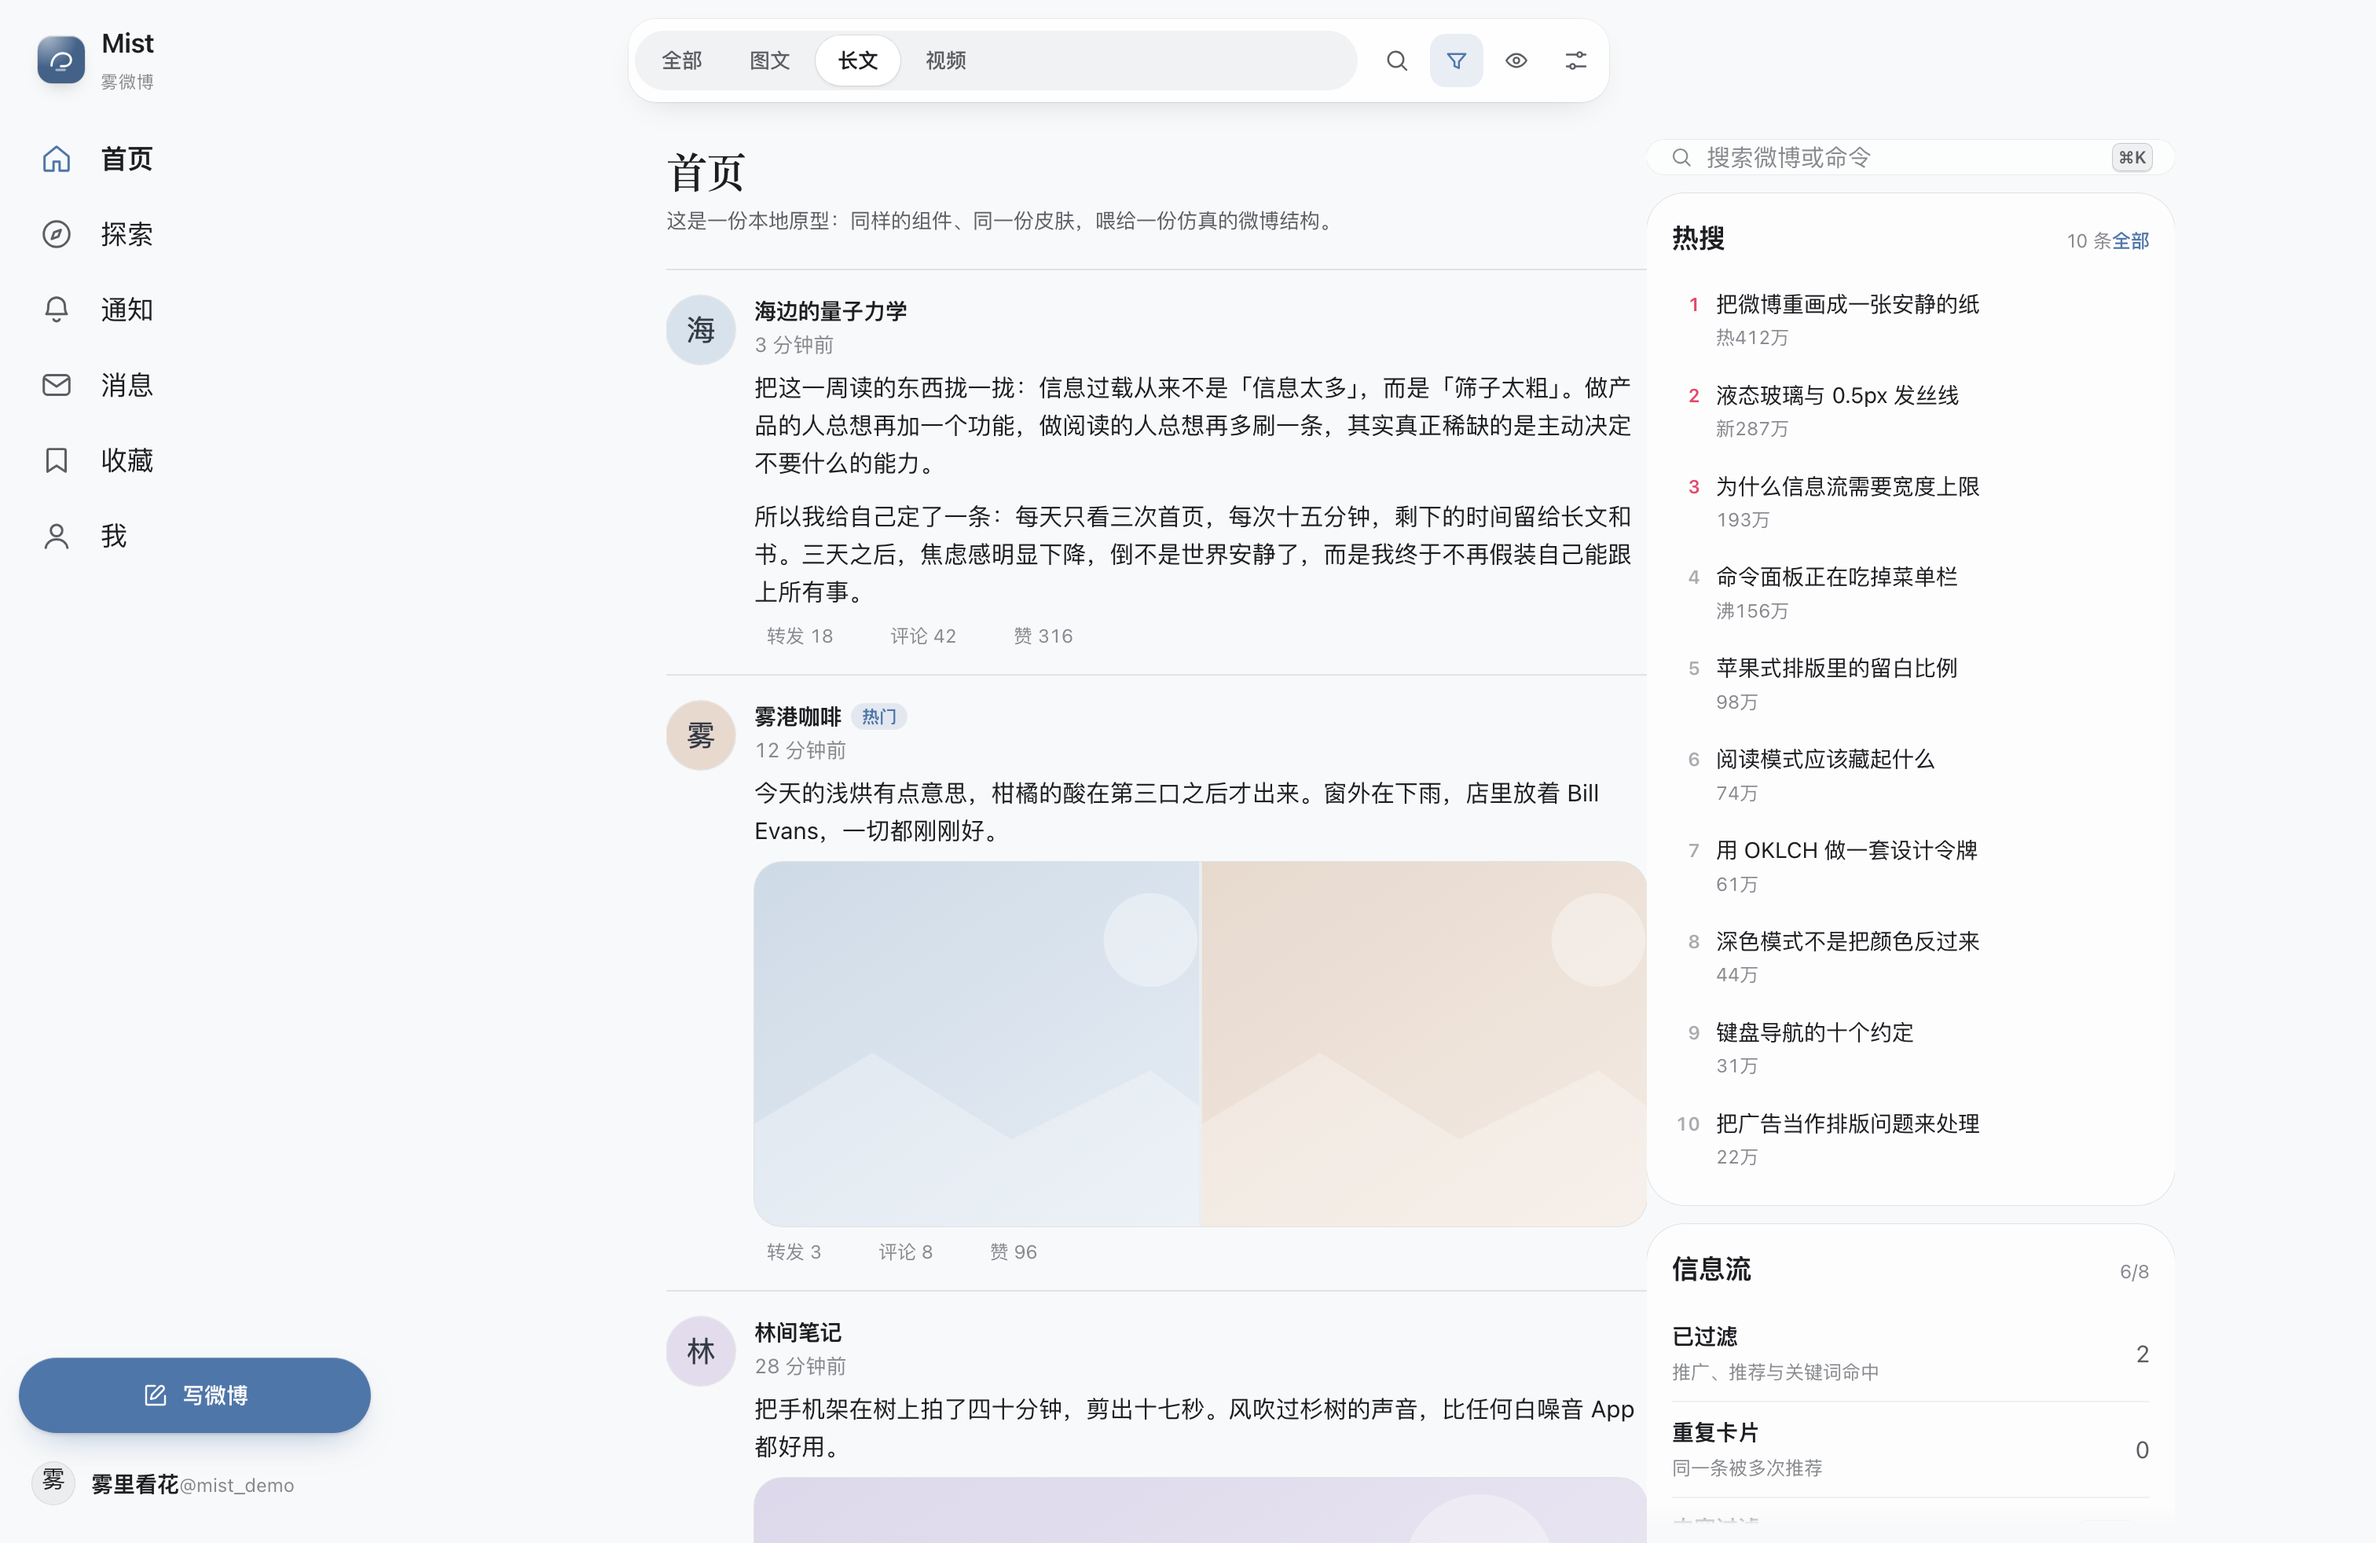
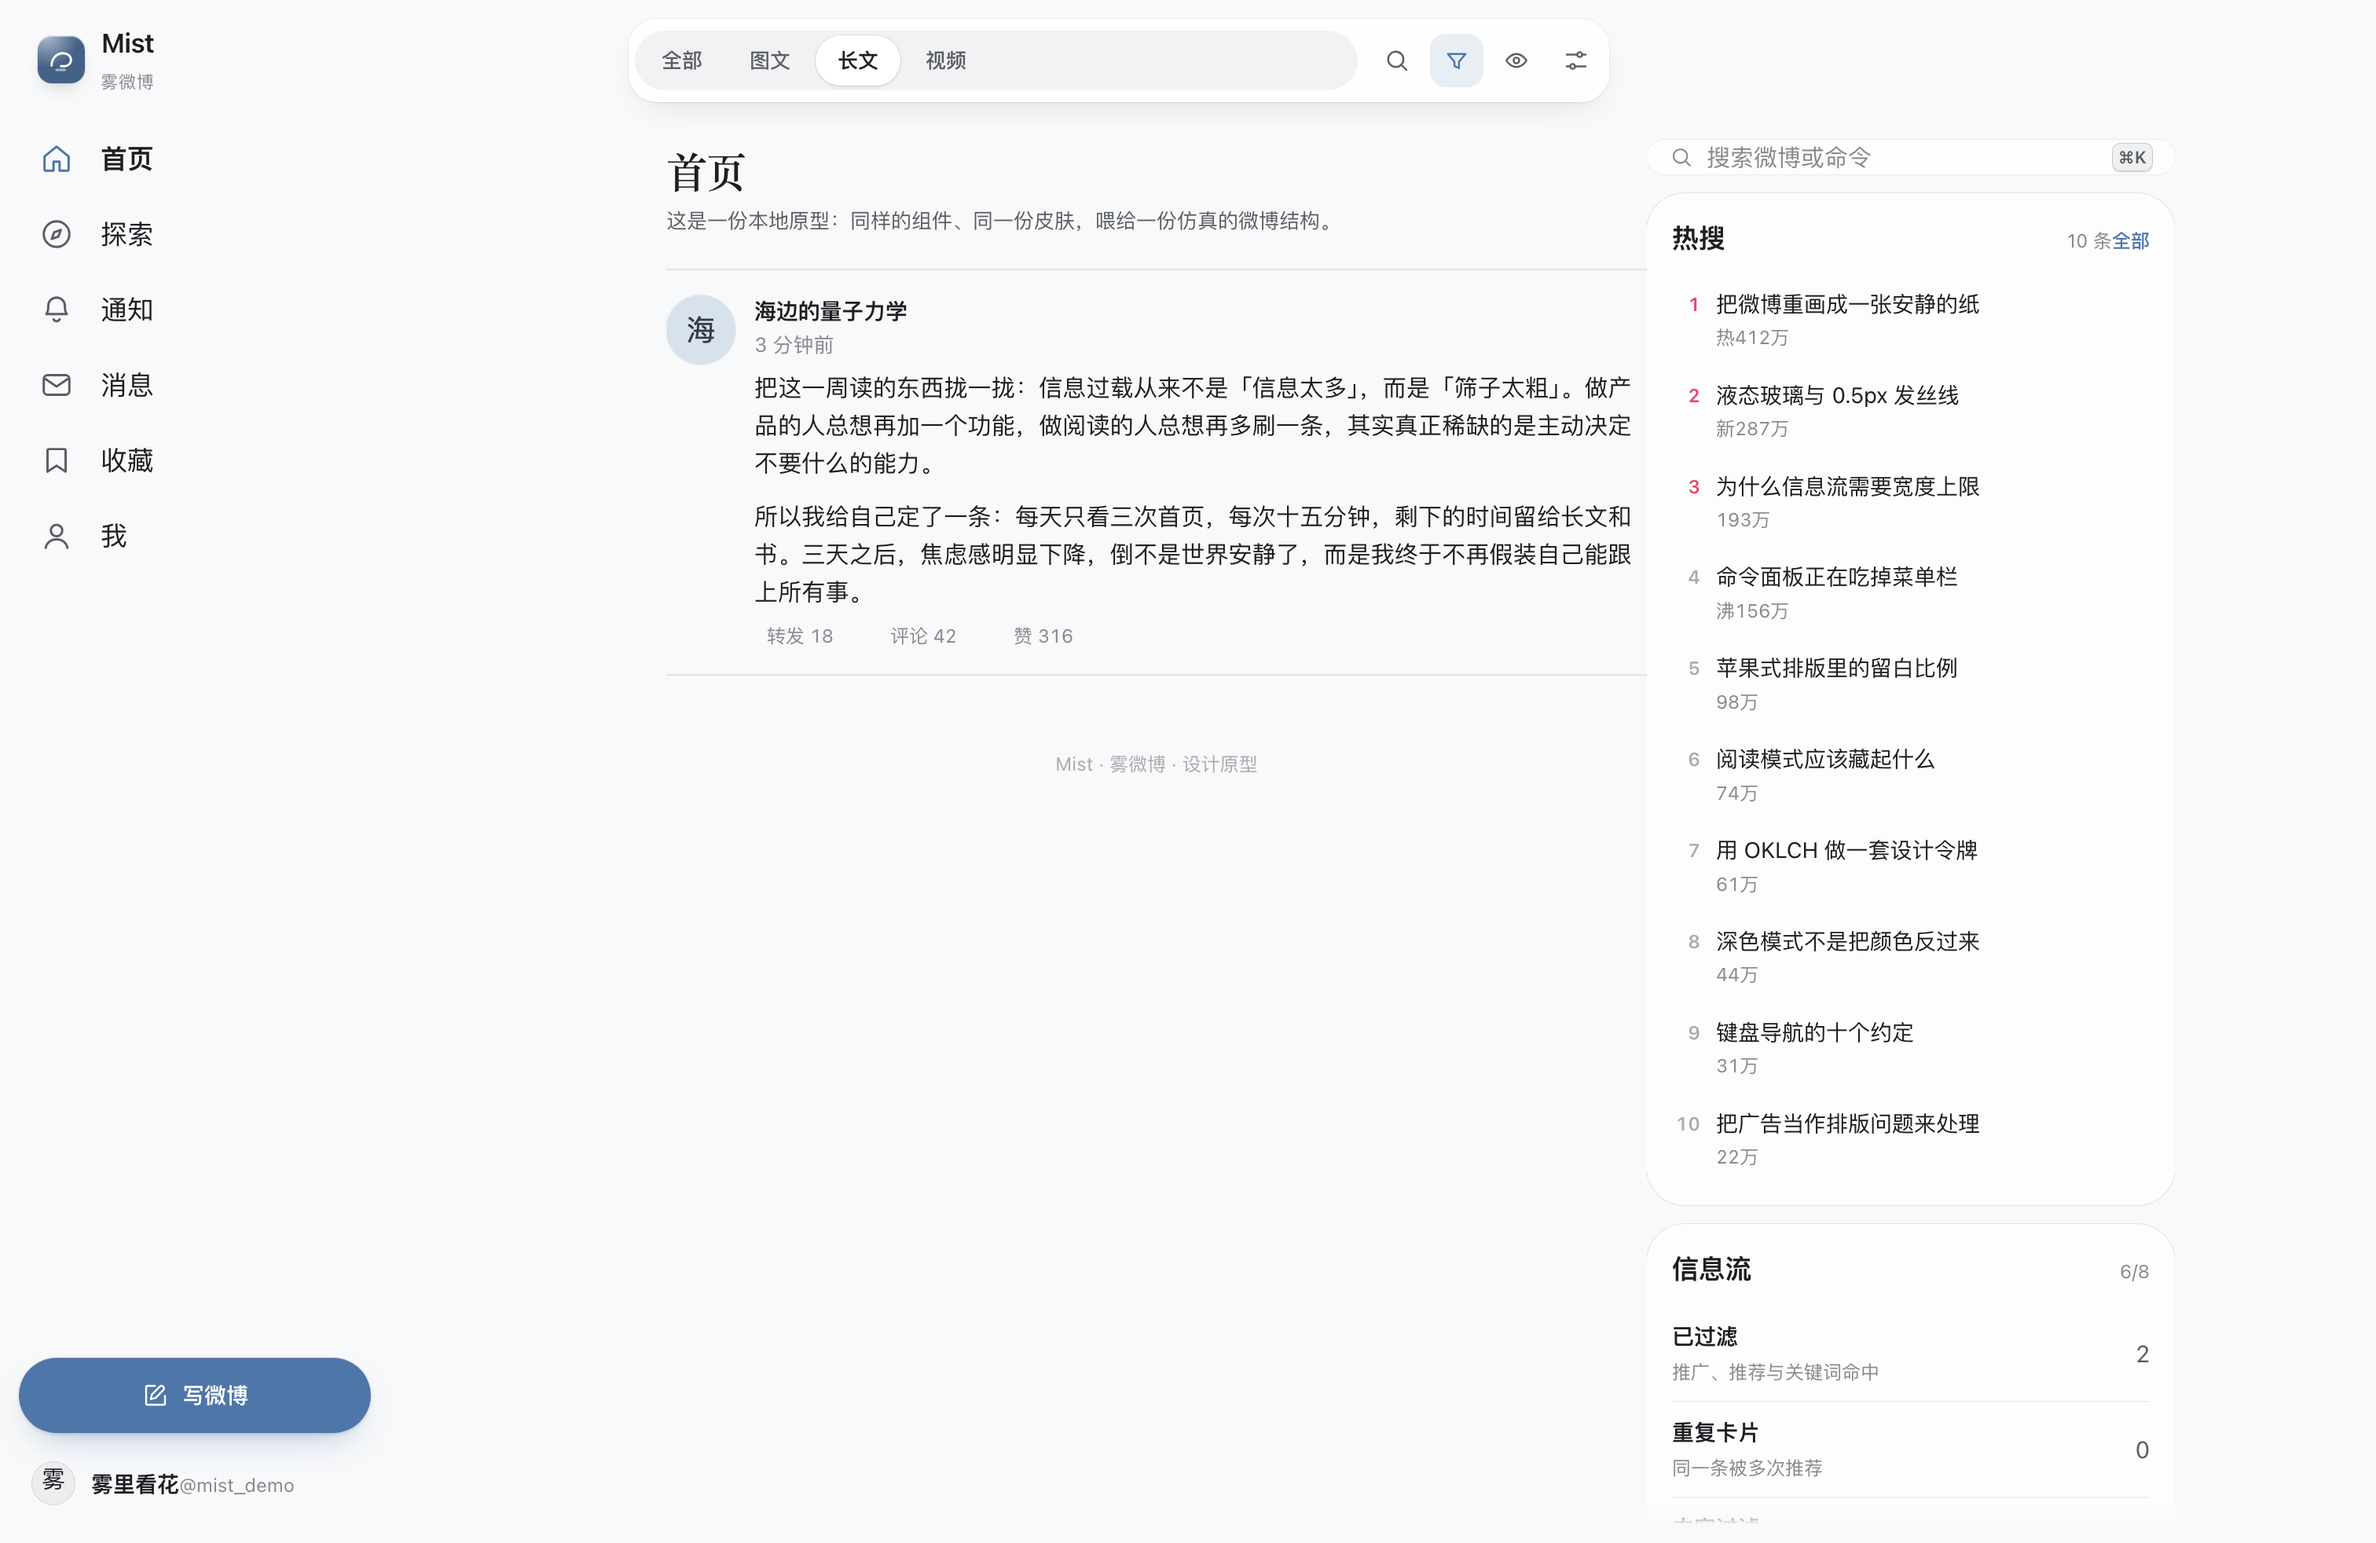
fix(demo): mirror the active view onto <html> so the 视图 tabs filter

Changed region(s): [[0.2798, 0.4348, 0.7149, 0.7454], [0.3108, 0.9007, 0.6839, 1.0], [0.2798, 0.8386, 0.3419, 0.9007]]

diff --git a/src/demo/main.tsx b/src/demo/main.tsx
@@ -256,6 +256,15 @@ applySettings({
 })
 document.documentElement.setAttribute('data-mist-booted', 'true')
 
+// The real enhancer mirrors the active view onto <html>; the demo has no
+// enhancer, so it mirrors the same attribute itself — otherwise the 视图 tabs
+// would look interactive while filtering nothing.
+const applyView = (view: string) => {
+  document.documentElement.setAttribute('data-mist-view', view)
+}
+ui.subscribe((state) => applyView(state.view))
+applyView(ui.get().view)
+
 const visible = POSTS.filter((post) => !post.ad && !post.suggested).length
 ui.set({
   stats: { total: POSTS.length, visible, filtered: POSTS.length - visible, duplicates: 0 },
